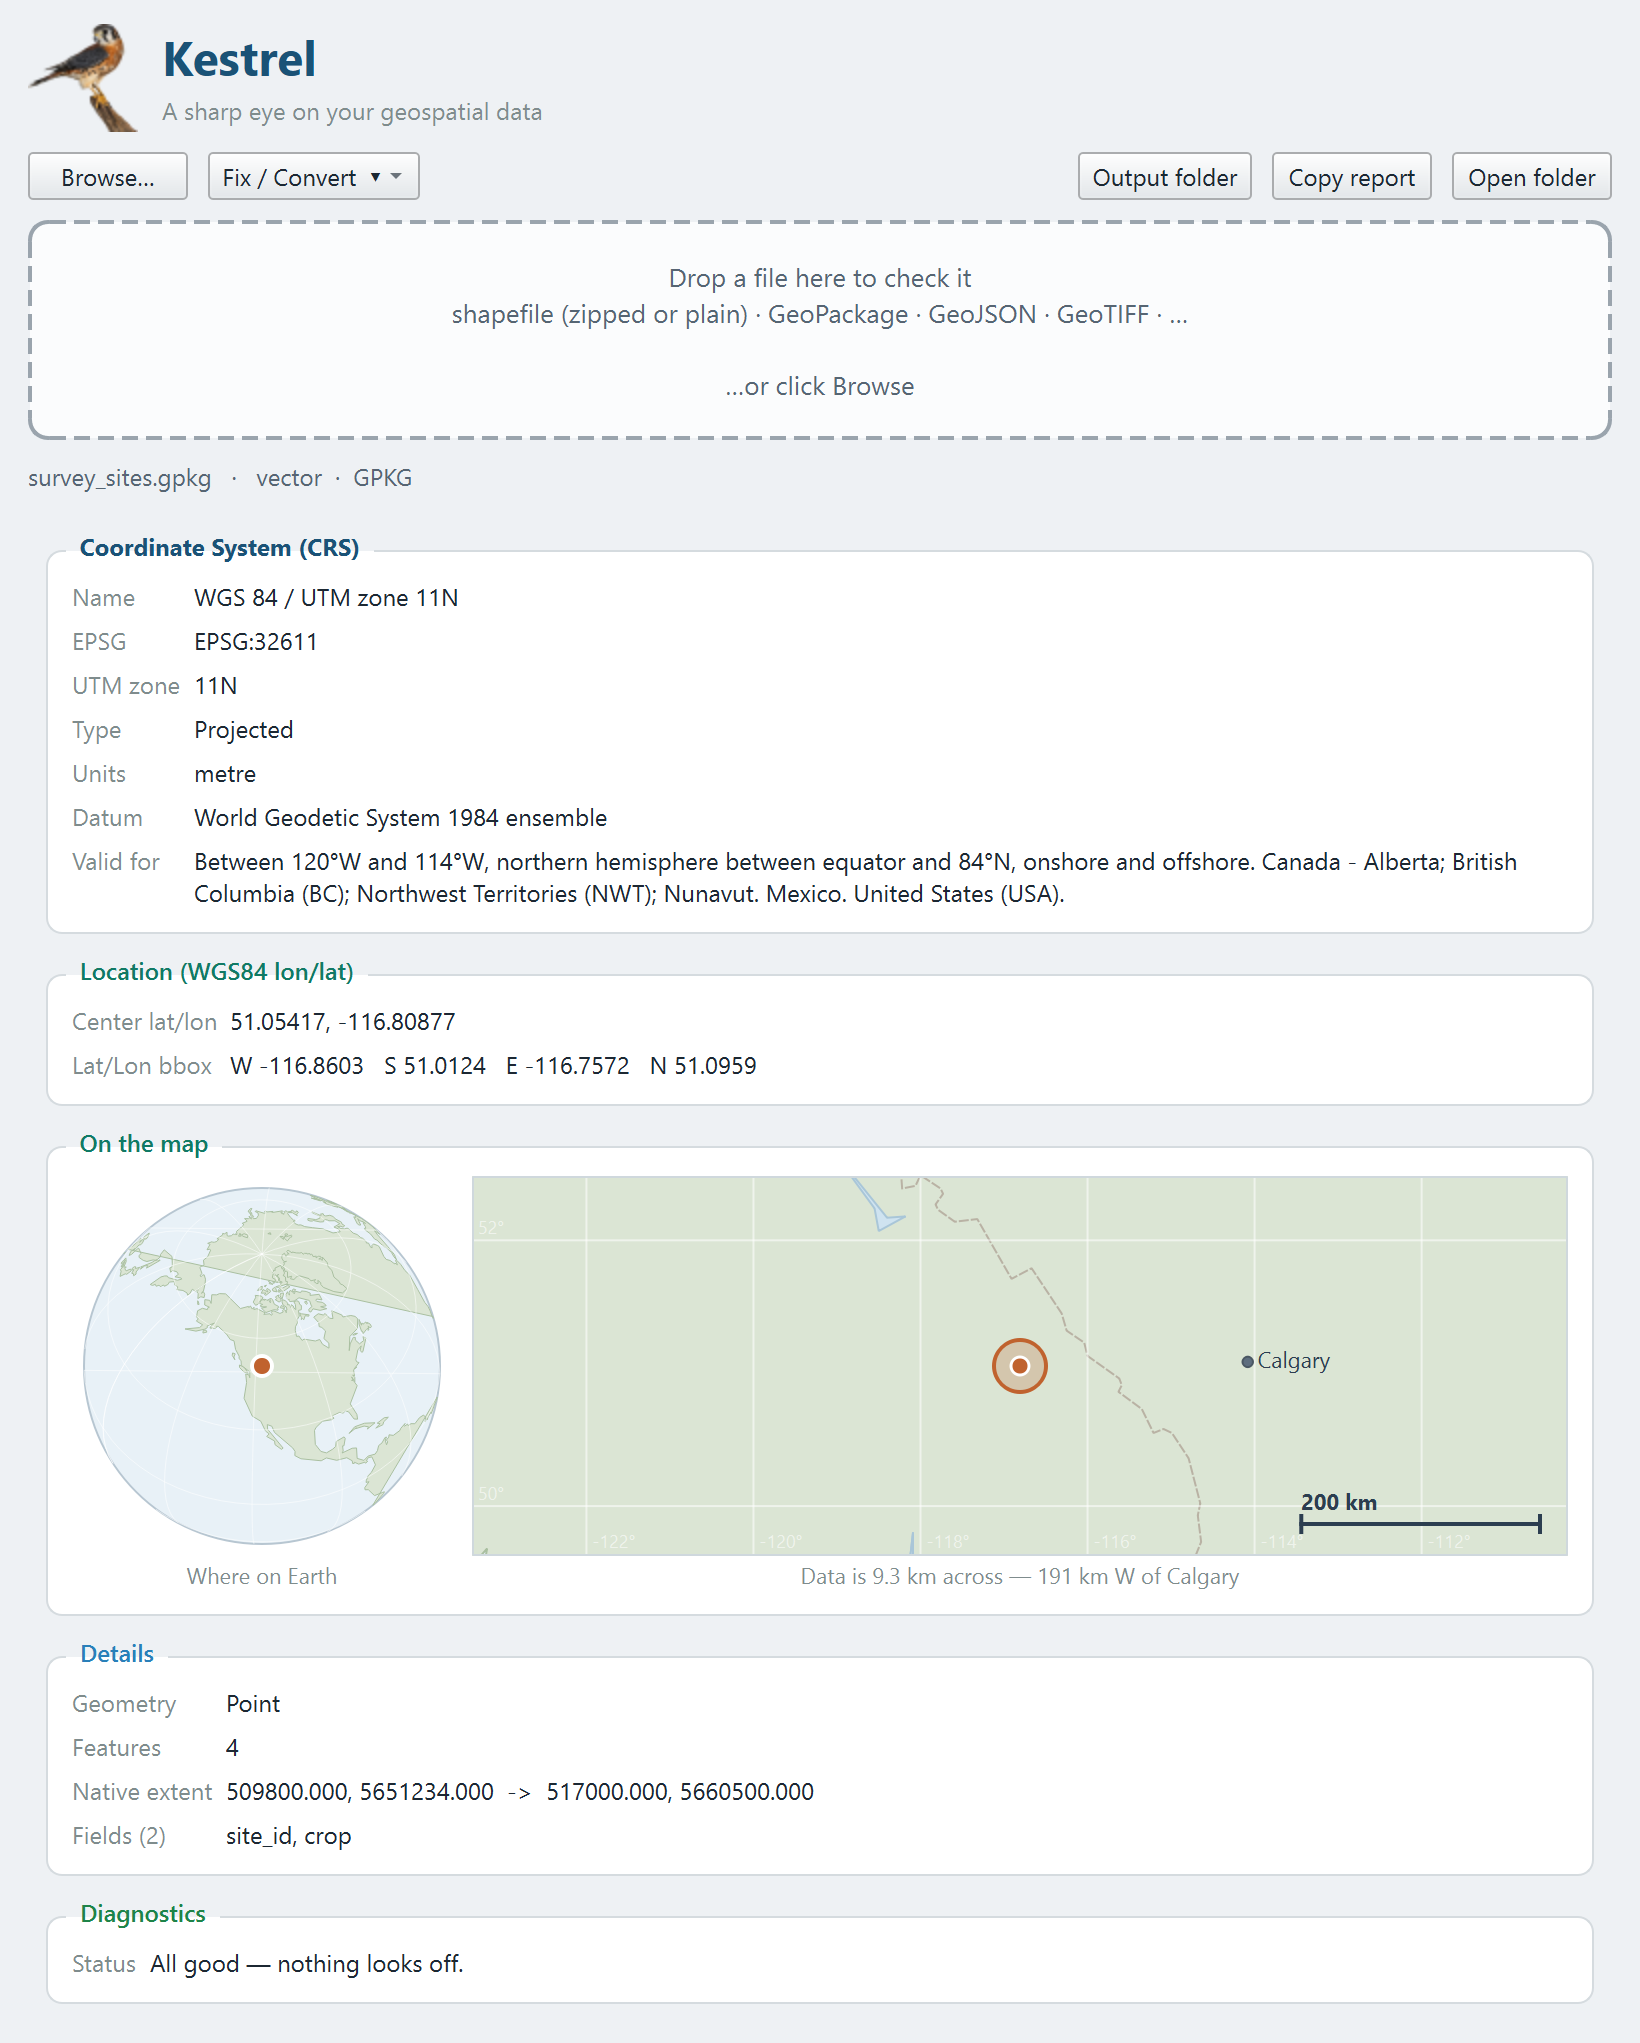
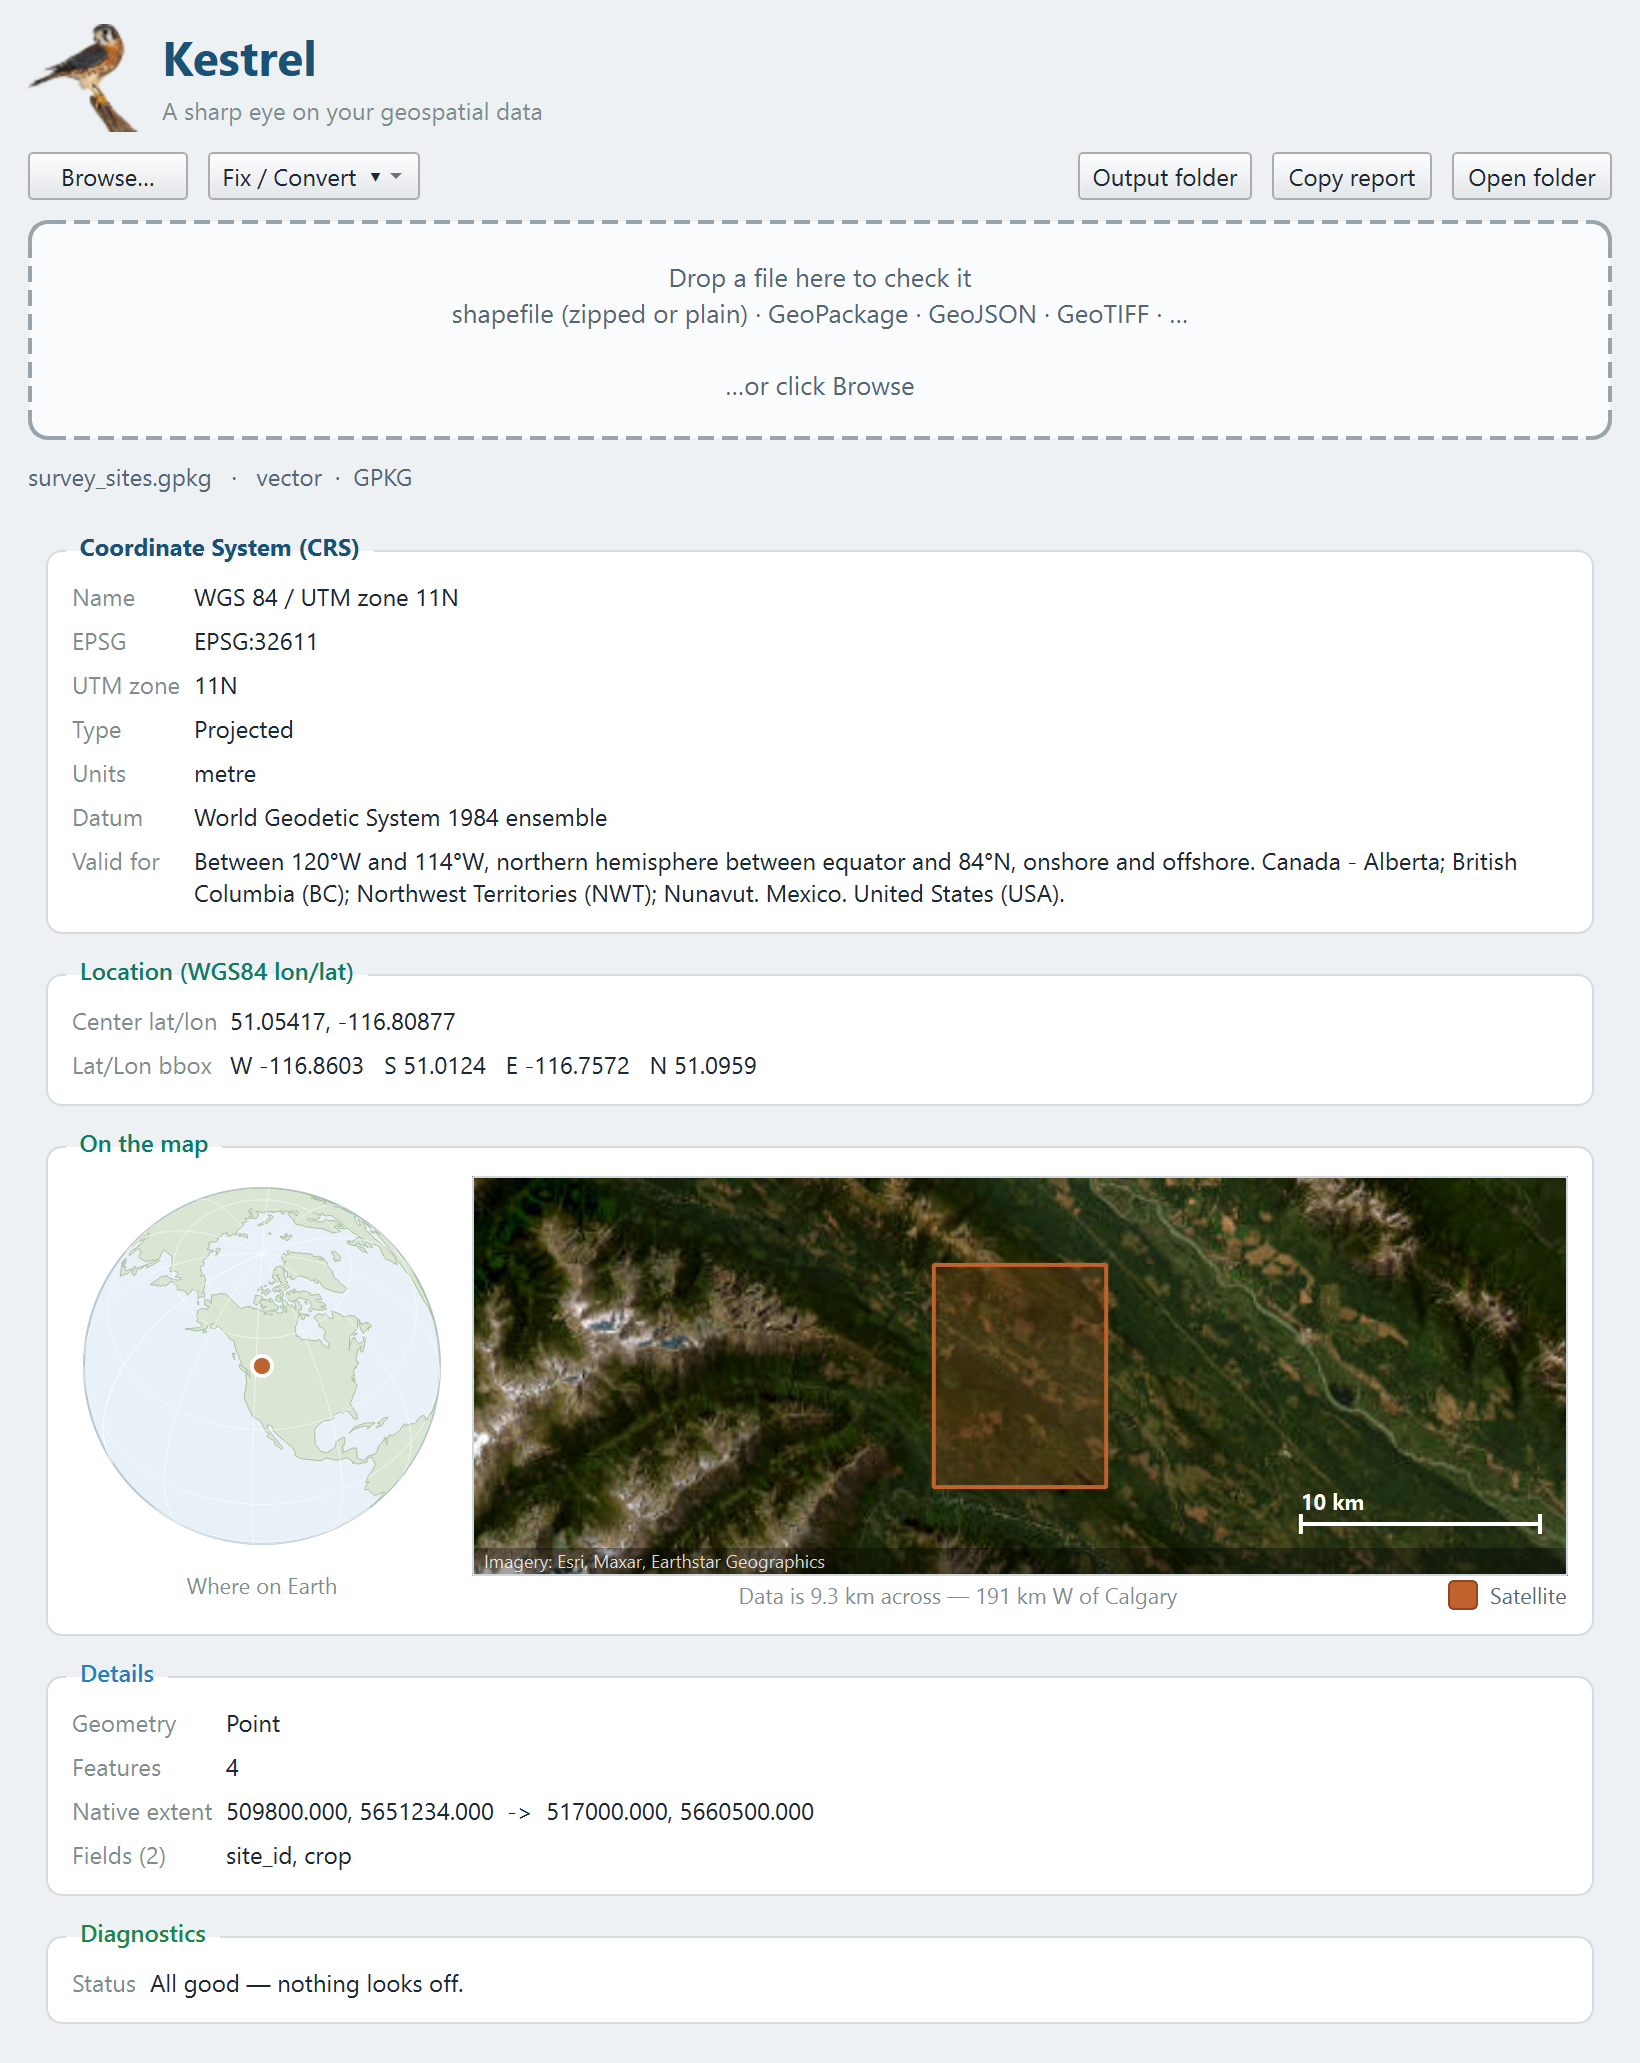
Make the Satellite toggle visible and on by default [v0.3.1]
The checkbox indicator was all but invisible against the app light palette - it
read as a faint line. It now has an explicit box: white outline when off, filled
rust when on.

Satellite imagery is also on by default now. It was off out of caution for
offline machines, but the fallback already handles that: if tiles cannot be
fetched the map reverts to the offline vectors and says so, and after a few
failures it stops trying. Defaulting to on means the map is useful the moment a
file is dropped.

README screenshot regenerated with imagery.

diff --git a/mapview.py b/mapview.py
@@ -2,14 +2,14 @@
 
 Two modes for the detail pane:
 
-* **Offline (default)** — coastlines, lakes, borders and town names drawn from the
-  outlines bundled in ``assets/world.json``. No network, nothing to fail on a
-  locked-down machine. Zoom is clamped to a regional scale because the bundled
-  vectors have nothing to show closer in.
-* **Satellite** — Esri World Imagery tiles, fetched asynchronously and cached on disk.
-  There is no API key involved (so there is no secret to leak and no bill to run up),
-  and if the network is unavailable it quietly falls back to the offline drawing.
-  With real imagery underneath, the zoom clamp lifts and you can go right in.
+* **Satellite (default)** — Esri World Imagery tiles, fetched asynchronously and cached
+  on disk. There is no API key involved, so there is no secret to leak and no bill to
+  run up. With real imagery underneath, the zoom clamp lifts and you can go right in to
+  the field. If the network is unavailable it quietly falls back to the offline drawing
+  and says so, so this is safe to leave on.
+* **Offline** — coastlines, lakes, borders and town names drawn from the outlines
+  bundled in ``assets/world.json``. Works with no network at all. Zoom is clamped to a
+  regional scale because the bundled vectors have nothing to show closer in.
 """
 
 from __future__ import annotations
@@ -603,9 +603,23 @@ class MapCard(QWidget):
         self.toggle = QCheckBox("Satellite")
         self.toggle.setChecked(bool(satellite))
         self.toggle.setToolTip(
-            "Fetch Esri World Imagery for this view (needs an internet connection).\n"
-            "Off by default so Kestrel stays instant and works offline.")
-        self.toggle.setStyleSheet("color: #566573; font-size: 11px;")
+            "Show Esri World Imagery under the data (needs an internet connection).\n"
+            "Turn it off to use the offline map — Kestrel falls back to it automatically\n"
+            "if imagery can't be reached.")
+        # The default indicator all but vanishes against the app's light palette, so it
+        # gets an explicit box: white when off, filled rust when on.
+        self.toggle.setStyleSheet("""
+            QCheckBox { color: #566573; font-size: 11px; spacing: 6px; }
+            QCheckBox::indicator {
+                width: 13px; height: 13px;
+                border: 1px solid #8b97a1; border-radius: 3px; background: #ffffff;
+            }
+            QCheckBox::indicator:hover { border-color: #2980b9; }
+            QCheckBox::indicator:checked {
+                background: #c0622e; border: 1px solid #8f4720;
+            }
+            QCheckBox::indicator:checked:hover { background: #a4501f; }
+        """)
         self.toggle.toggled.connect(self._toggled)
         bar.addWidget(self.toggle, 0)
         detail_col.addLayout(bar)

diff --git a/gui.py b/gui.py
@@ -605,7 +605,7 @@ class MainWindow(QMainWindow):
         lay = QVBoxLayout(box)
         lay.setContentsMargins(12, 14, 12, 12)
         lay.addWidget(MapCard(loc, ASSETS_DIR,
-                              satellite=_settings().value("satellite", False, type=bool),
+                              satellite=_settings().value("satellite", True, type=bool),
                               on_toggle=lambda on: _settings().setValue("satellite", on)))
         self.results_layout.addWidget(box)
 

diff --git a/kestrel/__init__.py b/kestrel/__init__.py
@@ -9,6 +9,6 @@ in QGIS.
 from .inspector import inspect_path, analyze_crs
 from .textreport import format_report_text
 
-__version__ = "0.3.0"
+__version__ = "0.3.1"
 
 __all__ = ["inspect_path", "analyze_crs", "format_report_text", "__version__"]
